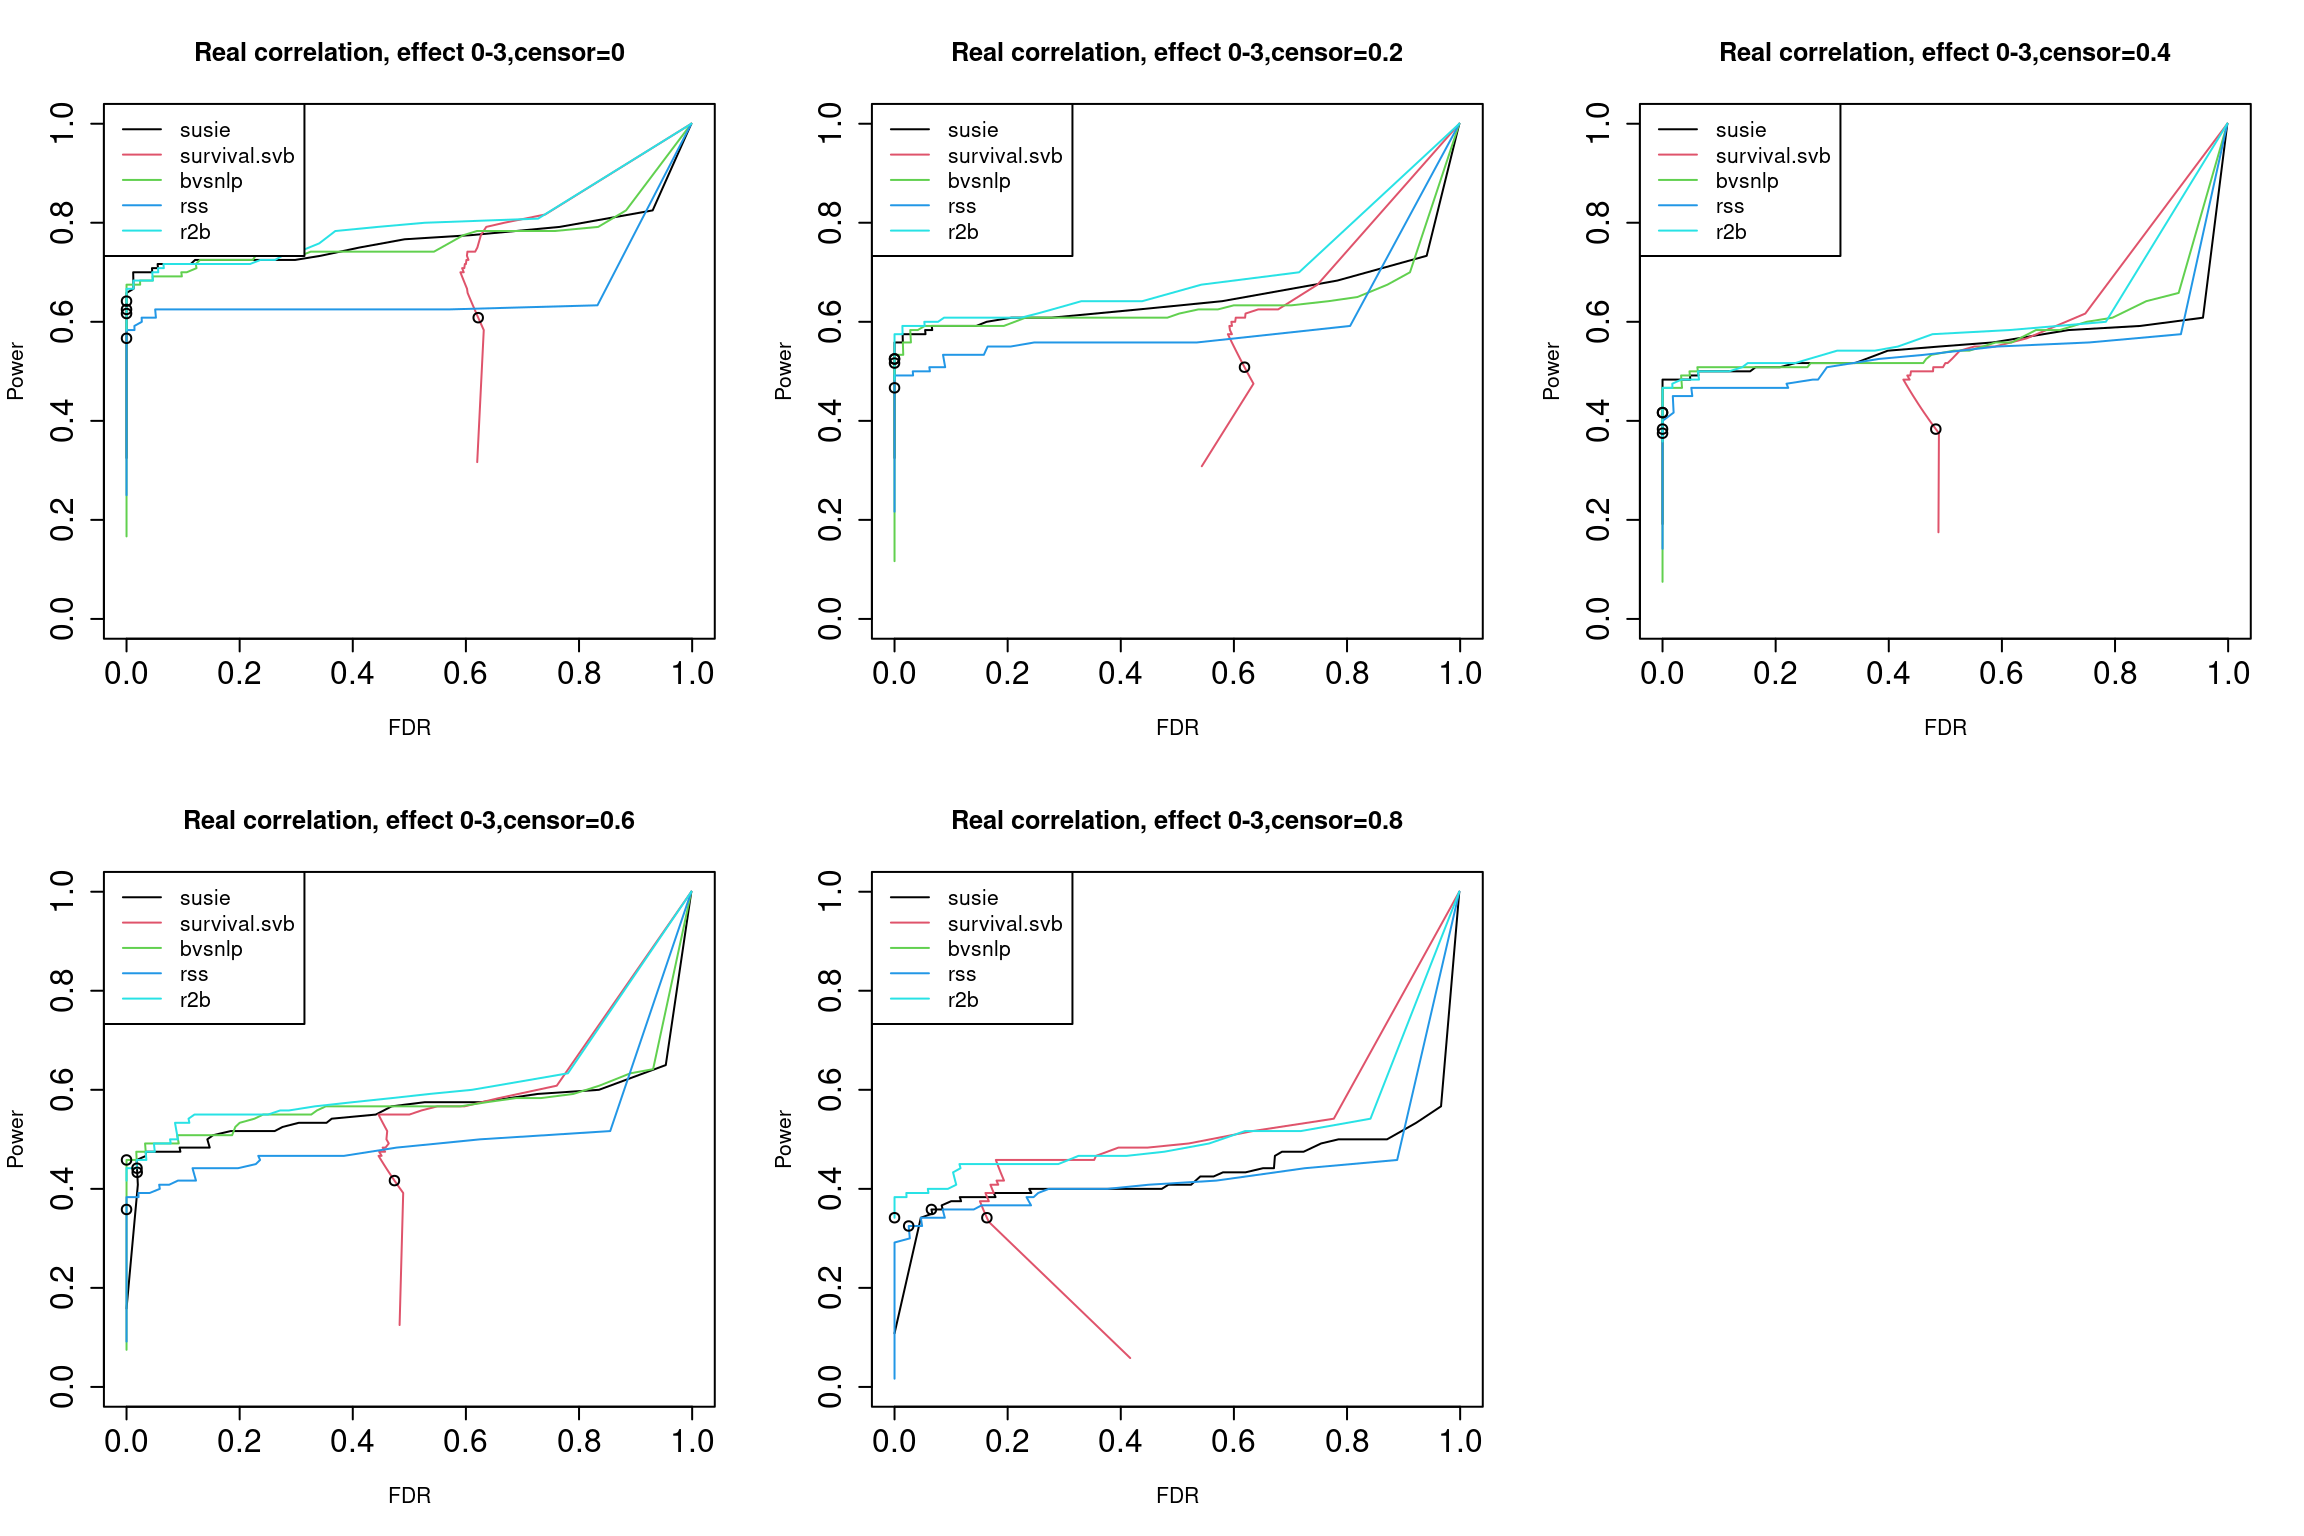
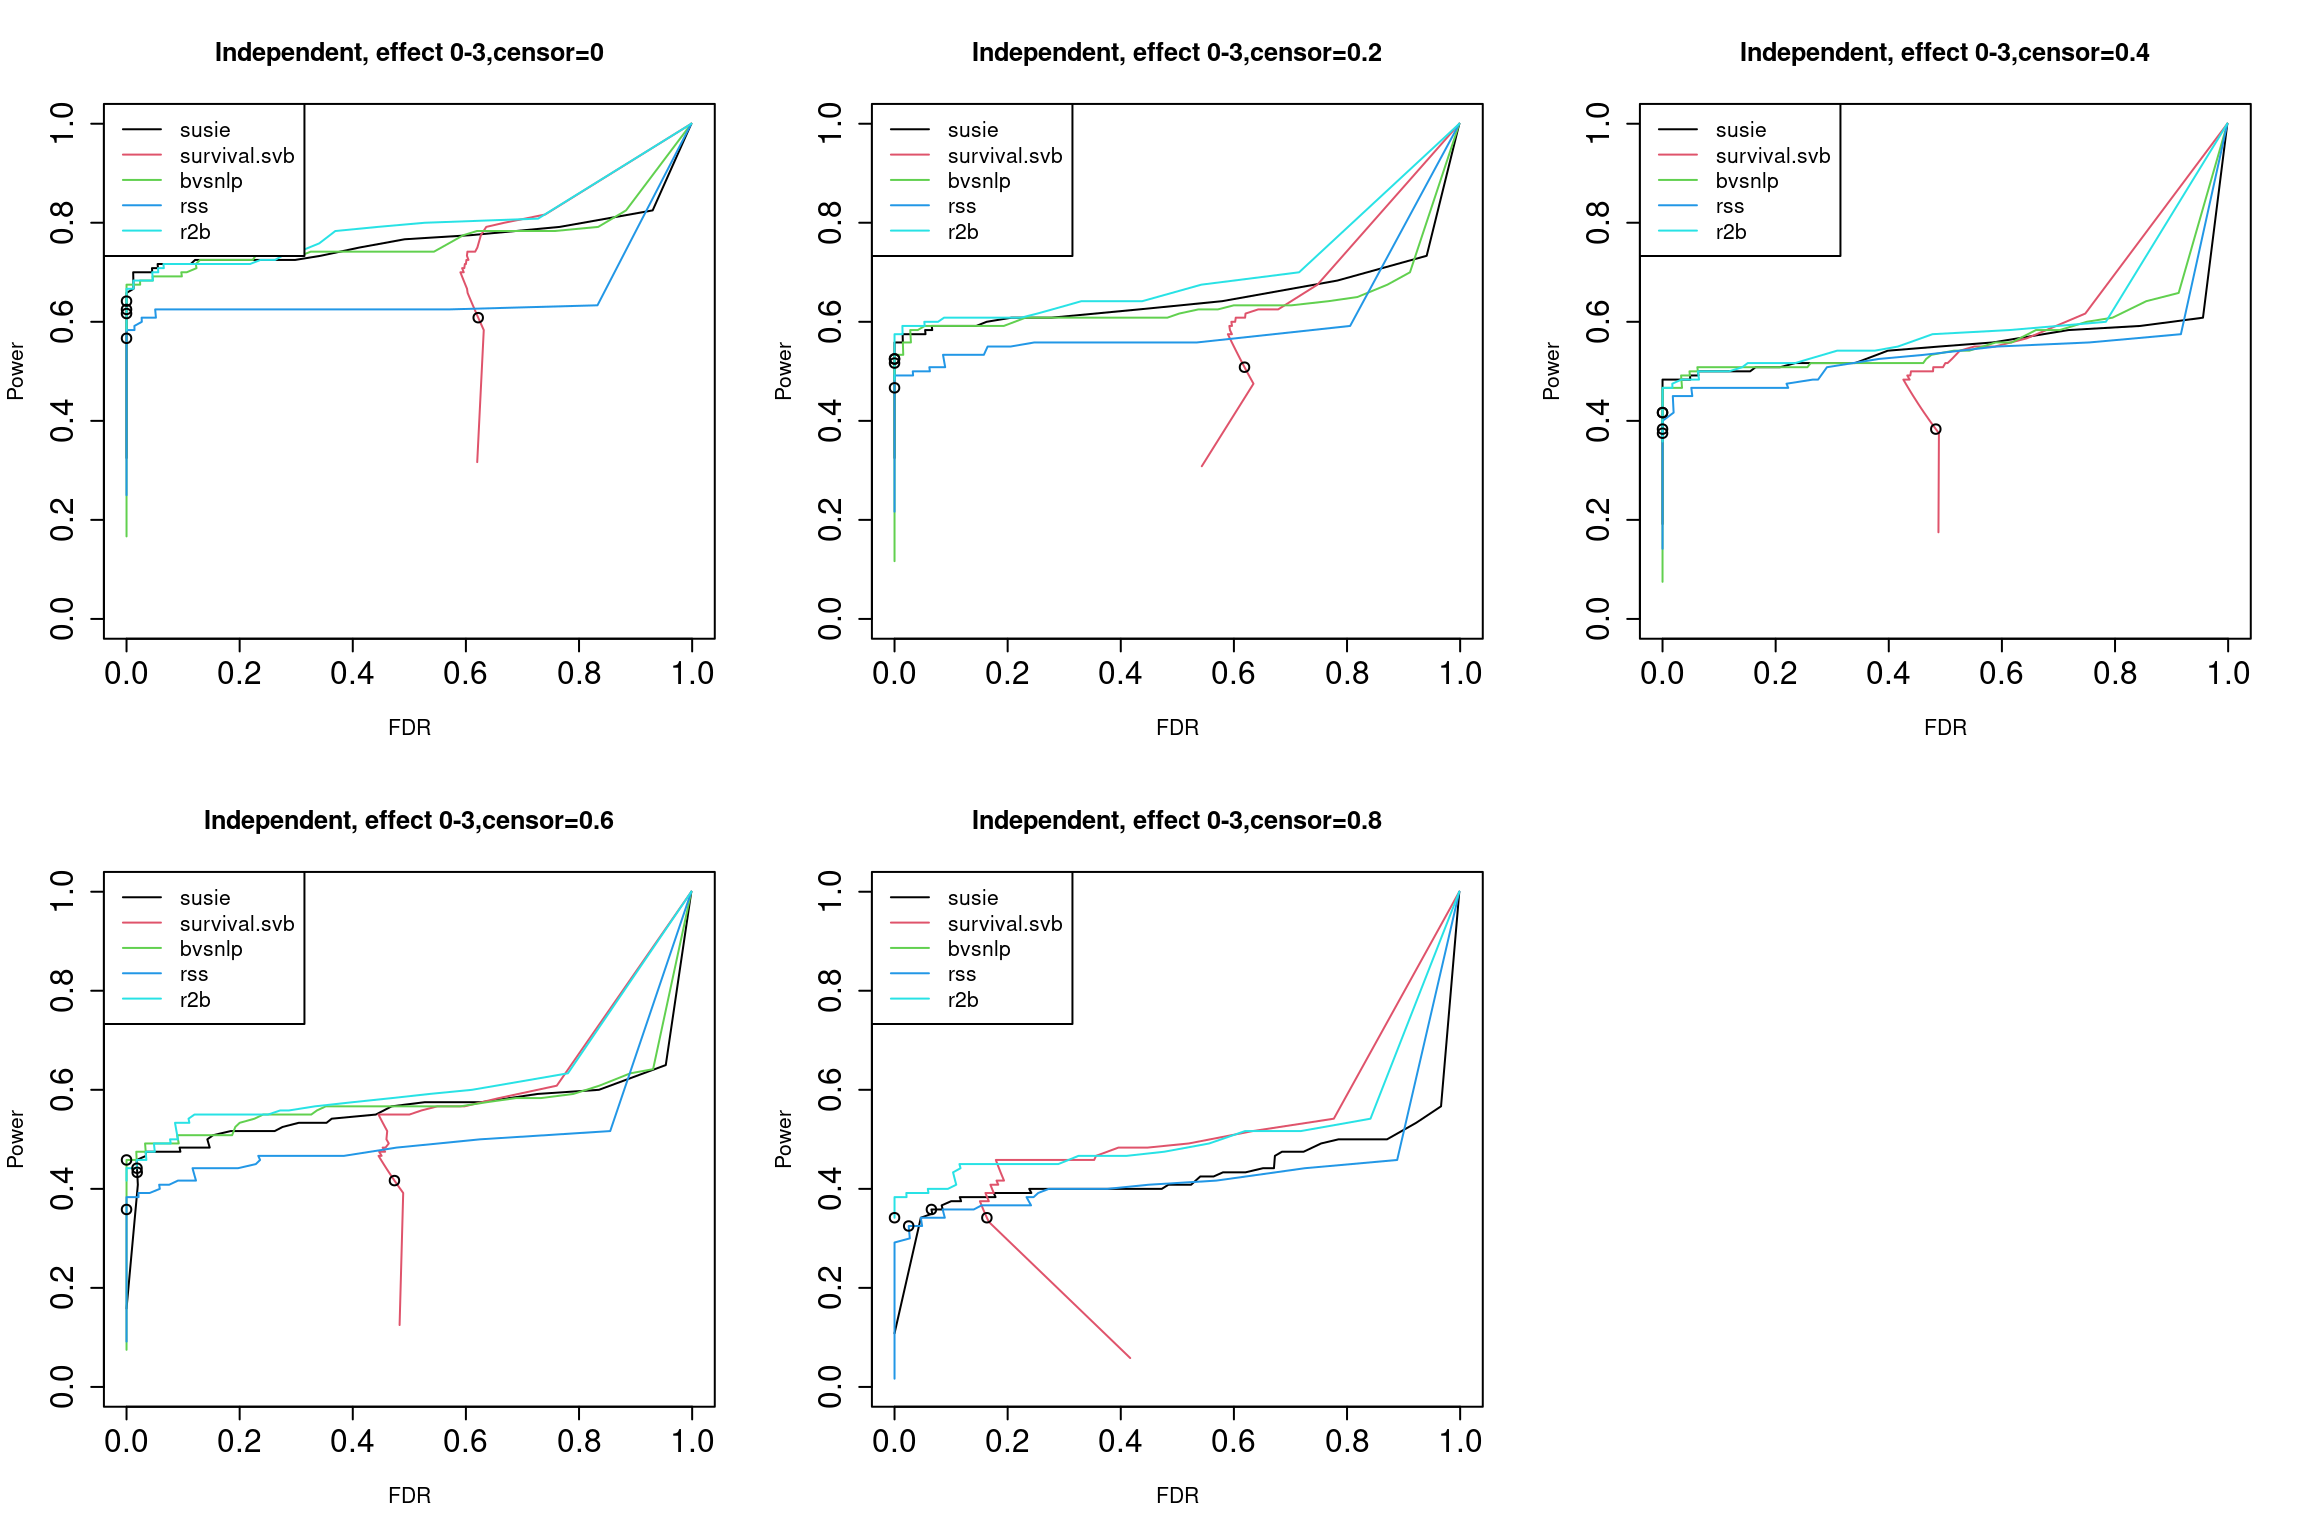
Build site.

diff --git a/docs/gtex_500iter.html b/docs/gtex_500iter.html
@@ -551,15 +551,15 @@ code/post_summary.R
 <div class="panel panel-default">
 <div class="panel-heading">
 <p class="panel-title">
-<a data-toggle="collapse" data-parent="#workflowr-checks" href="#strongRepositoryversionstrongahrefhttpsgithubcomyunqiyang0215survivalsusietree03739216adb26c08c53982444e1cdb3de4537b17targetblank0373921a">
+<a data-toggle="collapse" data-parent="#workflowr-checks" href="#strongRepositoryversionstrongahrefhttpsgithubcomyunqiyang0215survivalsusietreef86377eebe9bd17dad9212352fc7356184b67613targetblankf86377ea">
 <span class="glyphicon glyphicon-ok text-success"
 aria-hidden="true"></span> <strong>Repository version:</strong>
-<a href="https://github.com/yunqiyang0215/survival-susie/tree/03739216adb26c08c53982444e1cdb3de4537b17" target="_blank">0373921</a>
+<a href="https://github.com/yunqiyang0215/survival-susie/tree/f86377eebe9bd17dad9212352fc7356184b67613" target="_blank">f86377e</a>
 </a>
 </p>
 </div>
 <div
[2 lines of base64/hex data omitted]
 class="panel-collapse collapse">
 <div class="panel-body">
 <p>
@@ -569,7 +569,7 @@ reproducibility.
 </p>
 <p>
 The results in this page were generated with repository version
-<a href="https://github.com/yunqiyang0215/survival-susie/tree/03739216adb26c08c53982444e1cdb3de4537b17" target="_blank">0373921</a>.
+<a href="https://github.com/yunqiyang0215/survival-susie/tree/f86377eebe9bd17dad9212352fc7356184b67613" target="_blank">f86377e</a>.
 See the <em>Past versions</em> tab to see a history of the changes made
 to the R Markdown and HTML files.
 </p>
@@ -633,6 +633,40 @@ Message
 </tr>
 </thead>
 <tbody>
+<tr>
+<td>
+Rmd
+</td>
+<td>
+<a href="https://github.com/yunqiyang0215/survival-susie/blob/f86377eebe9bd17dad9212352fc7356184b67613/analysis/gtex_500iter.Rmd" target="_blank">f86377e</a>
+</td>
+<td>
+yunqi yang
+</td>
+<td>
+2024-03-18
+</td>
+<td>
+wflow_publish("analysis/gtex_500iter.Rmd")
+</td>
+</tr>
+<tr>
+<td>
+html
+</td>
+<td>
+<a href="https://rawcdn.githack.com/yunqiyang0215/survival-susie/8df764342a187c4ed5faeb34323943dd1d23ff6a/docs/gtex_500iter.html" target="_blank">8df7643</a>
+</td>
+<td>
+yunqi yang
+</td>
+<td>
+2024-03-18
+</td>
+<td>
+Build site.
+</td>
+</tr>
 <tr>
 <td>
 Rmd
@@ -706,8 +740,45 @@ for (i in 1:5){
   legend(&quot;topleft&quot;, legend = c(&quot;susie&quot;, &quot;survival.svb&quot;, &quot;bvsnlp&quot;, &quot;rss&quot;, &quot;r2b&quot;), col = c(1,2,3,4,5), lty = 1)
   
 }</code></pre>
-<p><img src="figure/gtex_500iter.Rmd/unnamed-chunk-3-1.png" width="1152" style="display: block; margin: auto;" />
-The dots indicate PIP threshold = 0.95</p>
+<p><img src="figure/gtex_500iter.Rmd/unnamed-chunk-3-1.png" width="1152" style="display: block; margin: auto;" /></p>
+<p>
+<button type="button" class="btn btn-default btn-xs btn-workflowr btn-workflowr-fig" data-toggle="collapse" data-target="#fig-unnamed-chunk-3-1">
+Past versions of unnamed-chunk-3-1.png
+</button>
+</p>
+<div id="fig-unnamed-chunk-3-1" class="collapse">
+<div class="table-responsive">
+<table class="table table-condensed table-hover">
+<thead>
+<tr>
+<th>
+Version
+</th>
+<th>
+Author
+</th>
+<th>
+Date
+</th>
+</tr>
+</thead>
+<tbody>
+<tr>
+<td>
+<a href="https://github.com/yunqiyang0215/survival-susie/blob/8df764342a187c4ed5faeb34323943dd1d23ff6a/docs/figure/gtex_500iter.Rmd/unnamed-chunk-3-1.png" target="_blank">8df7643</a>
+</td>
+<td>
+yunqi yang
+</td>
+<td>
+2024-03-18
+</td>
+</tr>
+</tbody>
+</table>
+</div>
+</div>
+<p>The dots indicate PIP threshold = 0.95</p>
 </div>
 <div id="results-using-independent-x-without-data-from-null-model."
 class="section level3">
@@ -731,7 +802,7 @@ for (i in 1:5){
   res.r2b = calculate_tpr_vs_fdr(pip.r2b, is_effect, ts)
   
   plot(res.susie[,2], res.susie[,1], type = &quot;l&quot;, xlim = c(0,1), ylim = c(0, 1), xlab = &quot;FDR&quot;, ylab = &quot;Power&quot;,
-       main = paste0(&quot;Real correlation, effect 0-3&quot;, &quot;,censor=&quot;, censor_lvl[i]))
+       main = paste0(&quot;Independent, effect 0-3&quot;, &quot;,censor=&quot;, censor_lvl[i]))
   lines(res.svb[,2], res.svb[,1], type = &quot;l&quot;, col = 2)
   lines(res.bvsnlp[,2], res.bvsnlp[,1], type = &quot;l&quot;, col = 3)
   lines(res.rss[,2], res.rss[,1], type = &quot;l&quot;, col = 4)
@@ -1150,6 +1221,43 @@ for (i in 1:5){
 # Warning in pip &gt;= ts[i] &amp; is_effect == 0: longer object length is not a multiple
 # of shorter object length</code></pre>
 <p><img src="figure/gtex_500iter.Rmd/unnamed-chunk-4-1.png" width="1152" style="display: block; margin: auto;" /></p>
+<p>
+<button type="button" class="btn btn-default btn-xs btn-workflowr btn-workflowr-fig" data-toggle="collapse" data-target="#fig-unnamed-chunk-4-1">
+Past versions of unnamed-chunk-4-1.png
+</button>
+</p>
+<div id="fig-unnamed-chunk-4-1" class="collapse">
+<div class="table-responsive">
+<table class="table table-condensed table-hover">
+<thead>
+<tr>
+<th>
+Version
+</th>
+<th>
+Author
+</th>
+<th>
+Date
+</th>
+</tr>
+</thead>
+<tbody>
+<tr>
+<td>
+<a href="https://github.com/yunqiyang0215/survival-susie/blob/8df764342a187c4ed5faeb34323943dd1d23ff6a/docs/figure/gtex_500iter.Rmd/unnamed-chunk-4-1.png" target="_blank">8df7643</a>
+</td>
+<td>
+yunqi yang
+</td>
+<td>
+2024-03-18
+</td>
+</tr>
+</tbody>
+</table>
+</div>
+</div>
 <p>The dots indicate PIP threshold = 0.95.</p>
 </div>
 <div id="time-comparison" class="section level3">
